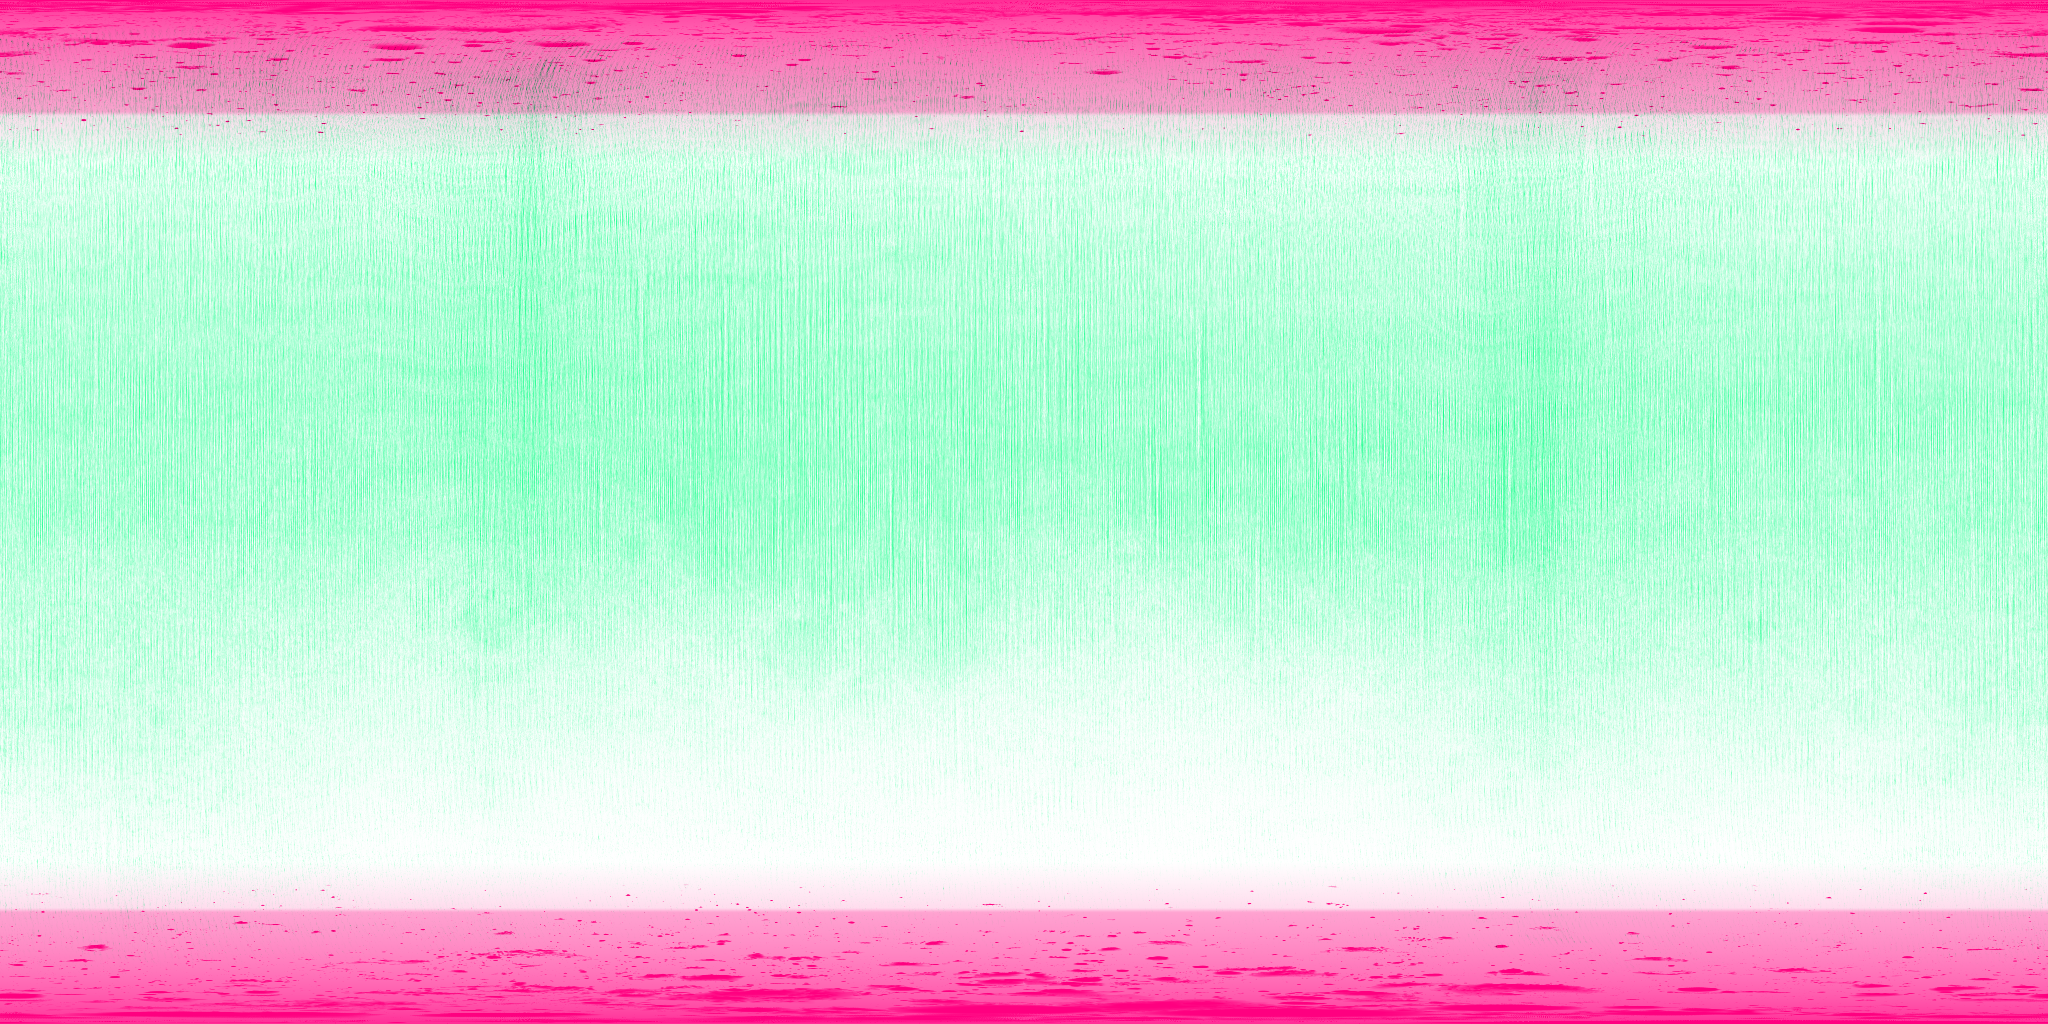
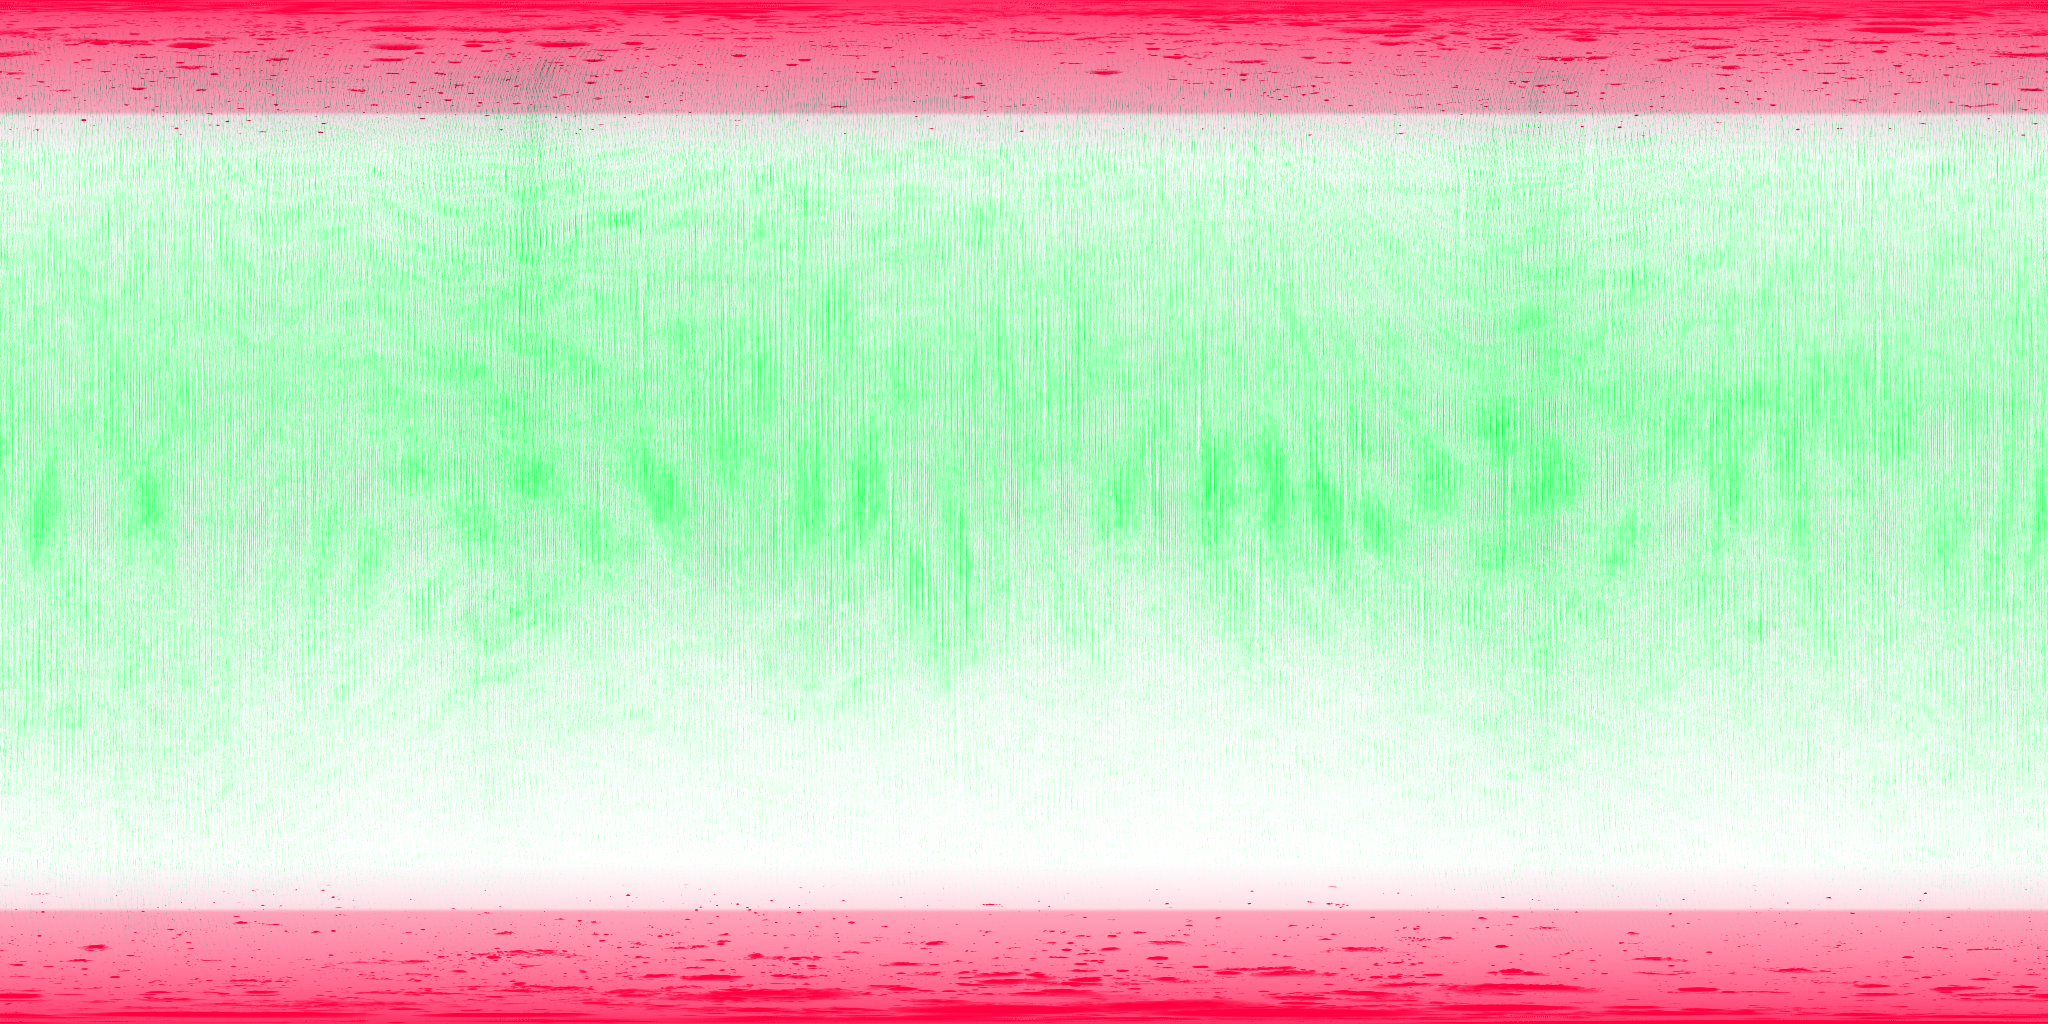
Add renderer; weight data-support score toward the weaker dataset
Custom lunar photometry shader with LOLA displacement and normals, real-time
sub-solar lighting, streamed LROC WAC 100 m tiles with proxy fallback, and
surface markers. Combined score is now half average, half minimum, so
permanently shadowed craters fall into the hatched low band.

Claude-Session: https://claude.ai/code/session_01NQGdYb7WJCUq87u58YdgZo

Changed region(s): [[0.0, 0.1562, 1.0, 0.625], [0.0, 0.875, 1.0, 1.0], [0.0, 0.0, 1.0, 0.0938]]

diff --git a/src/render/controls.ts b/src/render/controls.ts
@@ -263,13 +263,17 @@ export class GlobeControls {
     _q1.copy(this.q).invert();
     _v1.copy(Y_AXIS).applyQuaternion(_q1);
     const m = _v1.x * _v1.x + _v1.y * _v1.y;
-    const t = Math.min(1, Math.max(0, (m - 0.02) / 0.28));
+    const t = Math.min(1, Math.max(0, (m - 0.005) / 0.2));
     return { roll: Math.atan2(_v1.x, _v1.y), weight: t * t * (3 - 2 * t) };
   }
 
   private relaxRoll(dt: number): boolean {
     const { roll, weight } = this.rollState();
     if (weight <= 0 || Math.abs(roll) < 1e-5) return false;
+    // While a finger is down only correct small drift. After travelling over a pole the view is
+    // upside-down; turning it during the drag would swing the surface around the finger, so that
+    // (large) correction waits until the drag is released.
+    if (this.dragging && Math.abs(roll) > 1.05) return false;
     const frac = 1 - Math.exp(-dt * 9 * weight);
     // cap the swing rate so the turn back to north-up after crossing a pole is gentle
     const step = Math.sign(roll) * Math.min(Math.abs(roll) * frac, 2.5 * dt + 1e-4);
@@ -406,7 +410,7 @@ export class GlobeControls {
       } else {
         _q2.setFromAxisAngle(_v3.copy(this.omega).divideScalar(w), w * dt);
         this.q.premultiply(_q2).normalize();
-        this.omega.multiplyScalar(Math.exp(-dt / 0.38));
+        this.omega.multiplyScalar(Math.exp(-dt / 0.3));
         active = true;
       }
     }
@@ -573,7 +577,7 @@ export class GlobeControls {
     } else if (!cancelled && g.moved && !g.multi && e.timeStamp - this.lastMoveTime < 70) {
       const w = this.omega.length();
       if (w > 0.002 + this.alt * 0.02) {
-        if (w > 5) this.omega.multiplyScalar(5 / w);
+        if (w > 3.2) this.omega.multiplyScalar(3.2 / w);
         this.inertia = true;
       }
     }

diff --git a/src/render/tiles.ts b/src/render/tiles.ts
@@ -100,7 +100,7 @@ export class TileManager {
     this.group = group;
     // 'low' stops one level short of the mosaic's native resolution and keeps far fewer tiles.
     this.maxLevel = quality === 'low' ? 7 : TILE_MAX_LEVEL;
-    this.maxLeaves = quality === 'low' ? 28 : quality === 'medium' ? 64 : 120;
+    this.maxLeaves = quality === 'low' ? 36 : quality === 'medium' ? 64 : 120;
     this.cacheSize = quality === 'low' ? 56 : quality === 'medium' ? 140 : 280;
     this.concurrency = quality === 'low' ? 4 : 6;
     this.anisotropy = Math.min(maxAnisotropy, quality === 'low' ? 2 : 4);
@@ -256,7 +256,7 @@ export class TileManager {
     const cosEmis = Math.max(0, (d * cg - 1) / D);
     const texel = (size / TILE_SIZE) * D2R;
     const latNear = Math.max(0, Math.abs(latC) - half);
-    if (latNear > 88 * D2R) return true; // the shader hands the polar caps back to the base map
+    if (latNear > 89.6 * D2R) return true; // the shader hands the polar caps back to the base map
     const polar = Math.sqrt(Math.min(1, Math.cos(latNear) / 0.5)); // equirect tiles get very thin near the poles
     const px = ((texel * view.focalPx) / D) * Math.sqrt(Math.max(cosEmis, 0.2)) * polar;
 

diff --git a/src/render/shaders.ts b/src/render/shaders.ts
@@ -170,9 +170,13 @@ void main() {
   vec2 fw = abs(gx) + abs(gy);
   float footprint = max(fw.y * uColorSize.y, fw.x * uColorSize.x * cl);
   float w = (1.0 - smoothstep(0.4, 0.85, footprint)) * uTileAlpha;
-  // the equirectangular mosaic degenerates towards the poles; hand back to the base map there (84..88 deg)
-  w *= 1.0 - smoothstep(0.9945, 0.9994, abs(dir.y));
-  float tl = pow(texture(uTile, vTuv).r, uTileTone.y) * uTileTone.x;
+  // the equirectangular mosaic degenerates at the very poles; hand back to the base map there (88.6..89.6 deg)
+  w *= 1.0 - smoothstep(0.999701, 0.999976, abs(dir.y));
+  // the mosaic has a bad edge column at lon = +-180: skip the outermost texel there
+  vec2 tuv = vTuv;
+  if (uRect.x < 1e-6) tuv.x = max(tuv.x, 1.5 / 256.0);
+  if (uRect.z > 0.999999) tuv.x = min(tuv.x, 1.0 - 1.5 / 256.0);
+  float tl = pow(textureGrad(uTile, tuv, dFdx(vTuv), dFdy(vTuv)).r, uTileTone.y) * uTileTone.x;
   vec3 chroma = albedo / max(baseLum, 0.004);
   albedo = mix(albedo, chroma * tl, w);
 #endif

diff --git a/src/render/MoonView.ts b/src/render/MoonView.ts
@@ -570,6 +570,11 @@ export default class MoonView implements IMoonView {
       this.heightField?.texture.dispose();
       this.heightField = h;
       this.uniforms.uHeight.value = h.texture;
+      // upload now, then drop the CPU copies of the mip chain (tens of MB for the 4k tier);
+      // after a context loss everything is reloaded anyway
+      this.renderer.initTexture(h.texture);
+      h.texture.mipmaps = [];
+      h.texture.image = { data: null, width: h.width, height: h.height } as unknown as THREE.DataTexture['image'];
       if (keepCpu || !this.cpuHeights) {
         this.cpuHeights = h;
         this.markers.refreshHeights();

diff --git a/src/render/markers.ts b/src/render/markers.ts
@@ -9,7 +9,7 @@ import type { Marker } from '../types';
  */
 
 const CSS = `
-.mv-overlay{position:absolute;overflow:hidden;pointer-events:none;contain:strict;z-index:1;
+.mv-overlay{position:absolute;overflow:hidden;pointer-events:none;contain:strict;
   font:500 12px/1.2 system-ui,-apple-system,"Segoe UI",Roboto,sans-serif;-webkit-user-select:none;user-select:none}
 .mv-marker{position:absolute;left:0;top:0;display:flex;align-items:center;gap:6px;height:40px;margin:-20px 0 0 -20px;
   padding:0 0 0 14px;box-sizing:border-box;white-space:nowrap;color:#f4f1ea;opacity:0;visibility:hidden;

diff --git a/tools/build_data.py b/tools/build_data.py
@@ -451,7 +451,9 @@ def imagery_score(layers: dict) -> np.ndarray:
 def build_confidence(path: Path) -> None:
     alt = altimetry_score()
     img = imagery_score(imagery_layers())
-    comb = COMB_W_ALT * alt + COMB_W_IMG * img
+    # Half the plain average, half the weaker of the two: a spot is only as well supported as its weakest dataset,
+    # so a permanently shadowed crater (imagery 0) lands in the low band even with perfect laser coverage.
+    comb = 0.5 * (COMB_W_ALT * alt + COMB_W_IMG * img) + 0.5 * np.minimum(alt, img)
     wts = np.cos(np.deg2rad(lat_centres(CONF_H)))[:, None] * np.ones((1, CONF_W))
     for name, a in (("altimetry", alt), ("imagery", img), ("combined", comb)):
         log(f"  {name}: area-weighted mean {np.average(a, weights=wts) * 100:.1f}%, min {a.min() * 100:.0f}%, max {a.max() * 100:.0f}%")
@@ -528,8 +530,8 @@ CONFIDENCE_METHOD = {
         "S = 1 at lower latitudes."
     ),
     "combined": (
-        "Combined = 0.5 × altimetry + 0.5 × imagery (a plain average, so excellent laser coverage of a permanently shadowed crater still "
-        "counts for half). These scores are an index computed by this app from the published coverage and illumination products listed under "
+        "Combined = 0.5 × average(altimetry, imagery) + 0.5 × minimum(altimetry, imagery): half the plain average and half the weaker "
+        "of the two, so a place is pulled toward its weakest dataset (a permanently shadowed crater with perfect laser coverage scores 25, not 50). These scores are an index computed by this app from the published coverage and illumination products listed under "
         "sources; they are not an official NASA or LRO quality metric, and they describe global-map data support, not the accuracy of any single measurement."
     ),
 }

diff --git a/README.md b/README.md
@@ -37,7 +37,7 @@ The overlay answers "how much real measurement is behind what I am looking at he
   (permanently shadowed and poorly lit polar terrain, and areas where the colour mosaic is
   filled in rather than photographed, score low),
 
-into a **combined** 0–100 % value (currently a plain average of the two). The precise formulas live in the data pipeline and are written
+into a **combined** 0–100 % value (half the average of the two plus half the weaker one, so a spot is pulled toward its weakest dataset). The precise formulas live in the data pipeline and are written
 out in plain language to `manifest.json` → `confidenceMethod` (`altimetry`, `imagery`, `combined`),
 which is the source of truth and is what the app displays.
 
